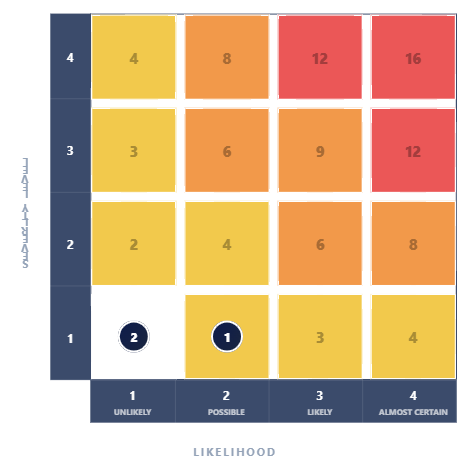
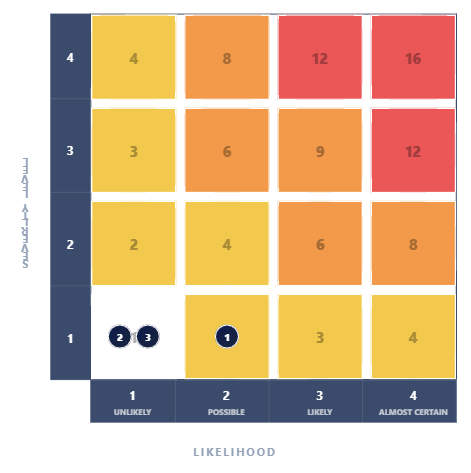
Update: Fixed Threats and Controls navigation button placement, resolved auto-save issues for completed assessments, implemented functional clickable step circles navigation, fixed permanent delete errors in Archive, and improved Heatmap printing display by aligning multiple data subjects side by si
Create: Enhanced assessment workflow navigation and Heatmap user experience improvements.

Changed region(s): [[0.2081, 0.6808, 0.3567, 0.74], [0.4459, 0.6808, 0.535, 0.7696]]

diff --git a/controllers/assessmentController/threatsAndControlsController.js b/controllers/assessmentController/threatsAndControlsController.js
@@ -216,41 +216,37 @@ const saveThreatsAndControls = async (req, res) => {
     // This ensures that "Previous Page" button saves the current state.
     // Even if validatedRows is empty, we delete and "save" nothing (effectively clearing).
     
-    // Determine fallback PDLC id
+    // Determine fallback PDLC id if any threats missing it
     const firstPdlc = await prisma.pDLC.findFirst({ where: { piaAssessment_id: piaAssessmentId } });
     const defaultPdlcId = firstPdlc ? firstPdlc.id : null;
 
-    // Delete existing threats for this assessment
-    await prisma.threatsAndControl.deleteMany({
-      where: { piaAssessment_id: piaAssessmentId }
-    });
-
-    // Create new threat records
-    for (const row of validatedRows) {
-      // If we don't have a dataSubjectId, we can't save to DB because of FK constraint (unless we make it optional too, but let's assume it's needed)
-      if (row.dataSubjectId === 0) continue; 
-      
-      const usePdlcId = row.pdlcId && Number.isInteger(row.pdlcId) ? row.pdlcId : defaultPdlcId;
-      if (!usePdlcId) continue; // Skip if no PDLC available yet
-
-      await prisma.threatsAndControl.create({
-        data: {
-          piaAssessment_id: piaAssessmentId,
-          dataSubject_id: row.dataSubjectId,
-          pdlc_id: usePdlcId,
-          threats_possibleConsequences: row.threatDesc || null,
-          typeOfThreats: row.threatType || null,
-          currentSeverityLevel: row.currentSeverity,
-          currentLikelihoodLevel: row.currentLikelihood,
-          currentRiskRating: row.currentRiskRating,
-          proposedControl: row.proposedControl || null,
-          afterSeverityLevel: row.afterSeverity,
-          afterLikelihoodLevel: row.afterLikelihood,
-          afterRiskRating: row.afterRiskRating,
-          typeOfMeasure: row.measureType || null
-        }
-      });
-    }
+    // Use a transaction to ensure atomic delete and create
+    await prisma.$transaction([
+      // Delete existing threats for this assessment
+      prisma.threatsAndControl.deleteMany({
+        where: { piaAssessment_id: piaAssessmentId }
+      }),
+      // Create new threat records
+      ...validatedRows
+        .filter(row => row.dataSubjectId !== 0 && (row.pdlcId || defaultPdlcId))
+        .map(row => prisma.threatsAndControl.create({
+          data: {
+            piaAssessment_id: piaAssessmentId,
+            dataSubject_id: row.dataSubjectId,
+            pdlc_id: row.pdlcId && Number.isInteger(row.pdlcId) ? row.pdlcId : defaultPdlcId,
+            threats_possibleConsequences: row.threatDesc || null,
+            typeOfThreats: row.threatType || null,
+            currentSeverityLevel: row.currentSeverity,
+            currentLikelihoodLevel: row.currentLikelihood,
+            currentRiskRating: row.currentRiskRating,
+            proposedControl: row.proposedControl || null,
+            afterSeverityLevel: row.afterSeverity,
+            afterLikelihoodLevel: row.afterLikelihood,
+            afterRiskRating: row.afterRiskRating,
+            typeOfMeasure: row.measureType || null
+          }
+        }))
+    ]);
 
     return res.redirect(redirectTarget);
   } catch (error) {

diff --git a/middleware/auth.js b/middleware/auth.js
@@ -27,6 +27,26 @@ const requireAssessmentAccess = async (req, res, next) => {
       return next();
     }
 
+    const assessment = await prisma.piaAssessment.findUnique({
+      where: { id: piaAssessmentId },
+      select: {
+        creatorId: true,
+        sharedWith: { select: { user_id: true } },
+        status: true
+      }
+    });
+
+    if (!assessment) {
+      return res.status(404).render('403', {
+        title: 'Assessment Not Found',
+        user: req.session.user,
+        message: 'The assessment you are looking for does not exist.'
+      });
+    }
+
+    // Pass data to res.locals for view use
+    res.locals.piaAssessmentStatus = assessment.status;
+
     const isAdmin = req.session.user?.role === 'ADMIN';
     if (isAdmin) return next();
 
@@ -42,22 +62,6 @@ const requireAssessmentAccess = async (req, res, next) => {
         // Upgrade session silently so future requests don't need to look up
         req.session.user.id = dbUser.id;
       }
-    }
-
-    const assessment = await prisma.piaAssessment.findUnique({
-      where: { id: piaAssessmentId },
-      select: {
-        creatorId: true,
-        sharedWith: { select: { user_id: true } }
-      }
-    });
-
-    if (!assessment) {
-      return res.status(404).render('403', {
-        title: 'Assessment Not Found',
-        user: req.session.user,
-        message: 'The assessment you are looking for does not exist.'
-      });
     }
 
     // Legacy assessments (no creator assigned) — accessible to all authenticated users

diff --git a/controllers/assessmentController/allAssessmentController.js b/controllers/assessmentController/allAssessmentController.js
@@ -146,22 +146,18 @@ const permanentDeleteAssessment = async (req, res) => {
 
     const parsedId = parseInt(id);
     const assessment = await prisma.piaAssessment.findUnique({ 
-        where: { id: parsedId },
-        include: {
-            authorizedParties: true,
-            personalInformation: true,
-            threatAssessments: true,
-            sharedWith: true
-        }
+        where: { id: parsedId }
     });
 
     if (!assessment) return res.status(404).json({ success: false, message: 'Not found.' });
     if (!isAdmin && assessment.creatorId != currentUserId) return res.status(403).json({ success: false, message: 'Unauthorized.' });
 
-    // Permanent delete
-    await prisma.piaAssessment.delete({
-      where: { id: parsedId }
-    });
+    // Delete ThreatsAndControl first — it references both PiiDatasubject and PDLC
+    // without onDelete: Cascade, so it must be removed before those parent rows are deleted.
+    await prisma.threatsAndControl.deleteMany({ where: { piaAssessment_id: parsedId } });
+
+    // Now safe to permanently delete the assessment (all other children have Cascade defined)
+    await prisma.piaAssessment.delete({ where: { id: parsedId } });
 
     return res.json({ success: true, message: 'Assessment permanently deleted.' });
   } catch (error) {
